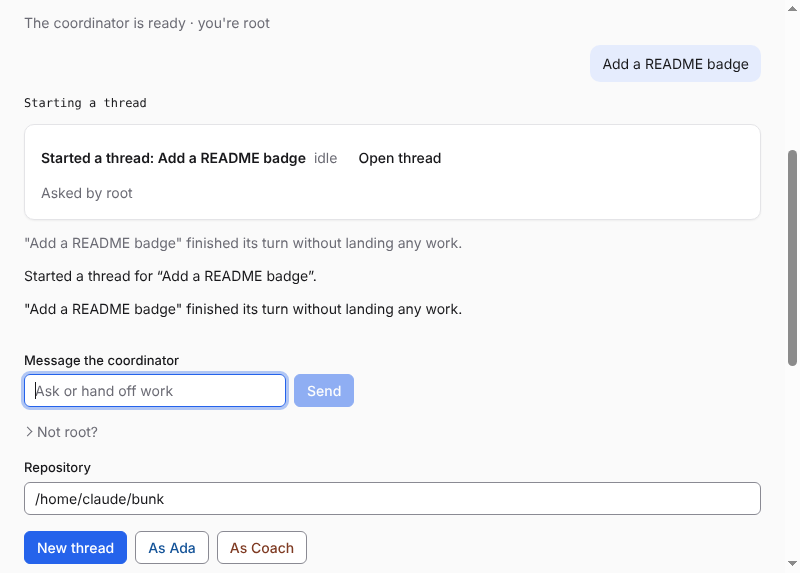
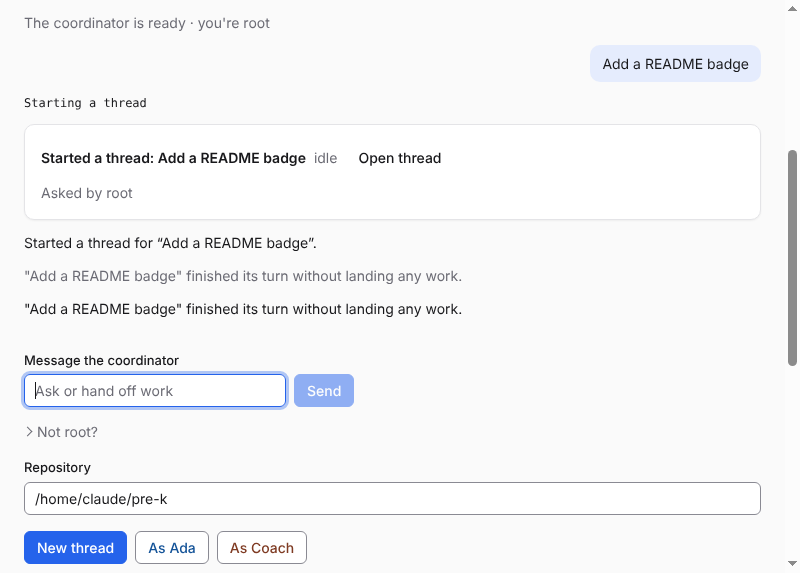
Thread updates wait for the coordinator's turn to end
Project chat showed a relayed update and the coordinator's own reply in
either order. Notes now wait in an outbox while the coordinator is mid-turn.

Claude-Session: https://claude.ai/code/session_01Vf1CvxSiVc6rwQUUFEiVKf

Changed region(s): [[0.0312, 0.4747, 0.5625, 0.5044], [0.0312, 0.4154, 0.5625, 0.445], [0.1562, 0.8604, 0.2188, 0.8901]]

diff --git a/app/threads/relay.test.ts b/app/threads/relay.test.ts
@@ -1,6 +1,6 @@
 import type { ThreadStatus } from "point/agent";
 import { describe, expect, it } from "vitest";
-import { createRelay, type RelayThread } from "./relay";
+import { createOutbox, createRelay, type RelayThread } from "./relay";
 
 const t = (over: Partial<RelayThread> = {}): RelayThread => ({
   threadId: "t1",
@@ -49,5 +49,23 @@ describe("relay", () => {
     expect(relay([t({ prs: [{ kind: "pr" as const, repo: "o/r", number: 1 }] })], s("idle"), { seed: true })).toEqual([]);
     expect(relay([t({ prs: [{ kind: "pr" as const, repo: "o/r", number: 1 }] })], s("idle"))).toEqual([]);
     expect(relay([t({ prs: [{ kind: "pr" as const, repo: "o/r", number: 1 }, { kind: "pr" as const, repo: "o/r", number: 2 }] })], s("idle"))).toHaveLength(1);
+  });
+});
+
+describe("outbox", () => {
+  const note = { coordinator: "c1", threadId: "t1", text: "Thread update: done" };
+
+  it("holds a note while the coordinator is mid-turn and sends it once it's idle", () => {
+    const outbox = createOutbox();
+    outbox.hold(note);
+    expect(outbox.take(new Map([["c1", "running"]]))).toEqual([]);
+    expect(outbox.take(new Map([["c1", "idle"]]))).toEqual([note]);
+    expect(outbox.take(new Map([["c1", "idle"]]))).toEqual([]);
+  });
+
+  it("sends at once to a coordinator Point doesn't list", () => {
+    const outbox = createOutbox();
+    outbox.hold(note);
+    expect(outbox.take(new Map())).toEqual([note]);
   });
 });

diff --git a/app/main.ts b/app/main.ts
@@ -1,6 +1,6 @@
 import { defineMain } from "point/app";
 import { z } from "zod";
-import { createRelay } from "./threads/relay";
+import { createOutbox, createRelay } from "./threads/relay";
 
 const pointThreads = z.array(
   z.object({
@@ -16,6 +16,7 @@ export default defineMain({
   // opens a PR, queue one line into that project's coordinator, recorded as from the thread, never steering it.
   ready({ rpc, collections, stores }) {
     const relay = createRelay();
+    const outbox = createOutbox();
     let status = new Map<string, z.infer<typeof pointThreads>[number]["status"]>();
     let seeded = false;
 
@@ -32,9 +33,10 @@ export default defineMain({
       seeded = true;
       for (const n of notes) {
         const coordinator = stores.get("coordinators").threads[n.projectId];
-        if (!coordinator) continue;
-        await rpc.call("agents.send", { threadId: coordinator, text: n.text, turn: "queue", by: `thread:${n.threadId}` });
+        if (coordinator) outbox.hold({ coordinator, threadId: n.threadId, text: n.text });
       }
+      for (const n of outbox.take(status))
+        await rpc.call("agents.send", { threadId: n.coordinator, text: n.text, turn: "queue", by: `thread:${n.threadId}` });
     };
 
     collections.subscribe("thread-outputs", () => void tick());

diff --git a/app/threads/relay.ts b/app/threads/relay.ts
@@ -62,3 +62,32 @@ export function createRelay() {
     return notes;
   };
 }
+
+/** A note waiting for its coordinator. */
+export interface HeldNote {
+  coordinator: string;
+  threadId: string;
+  text: string;
+}
+
+/**
+ * Notes wait while their coordinator is mid-turn, so a thread update lands after the coordinator's own reply rather
+ * than racing it (project chat showed the two in either order). A coordinator Point doesn't list gets its notes now.
+ */
+export function createOutbox() {
+  const held: HeldNote[] = [];
+  return {
+    hold(note: HeldNote) {
+      held.push(note);
+    },
+    take(status: ReadonlyMap<string, ThreadStatus>): HeldNote[] {
+      const busy = (id: string) => {
+        const s = status.get(id);
+        return s === "starting" || s === "running" || s === "parked" || s === "paused";
+      };
+      const ready = held.filter((n) => !busy(n.coordinator));
+      held.splice(0, held.length, ...held.filter((n) => busy(n.coordinator)));
+      return ready;
+    },
+  };
+}
